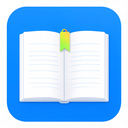
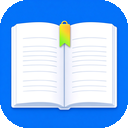
净化规则增强(起点段评/著/字数/顶部信息区/侧边按钮)；更新图标为带书签标签版；版本号统一为1.0

diff --git a/content.js b/content.js
@@ -131,7 +131,7 @@
   var GM_info = {
     script: {
       name: '小说阅读助手',
-      version: '3.3',
+      version: '1.0',
       description: '小说阅读助手：统一阅读样式、去广告、段落整理、自动翻页、进度记忆、快捷键',
       includes: ['*://*/*'],
       excludes: []
@@ -1193,7 +1193,7 @@
       // 删除隐藏元素（起点隐藏段评数字/弹幕等用 display:none，CSS 被移除后隐藏失效）
       $div.find('[style*="display:none"], [style*="display: none"], [hidden], [aria-hidden="true"]').remove();
       // 删除章节标题
-      $div.find('h1, h2, h3').remove();
+      $div.find('h1, h2, h3, h4, h5, h6, [role="heading"]').remove();
       // contentRemove
       $div.find(Rule.contentRemove).remove();
       if (info && info.contentRemove) {
@@ -1204,7 +1204,7 @@
           var $t = $(this);
           var txt = ($t.text() || '').replace(/\s+/g, '');
           if (!txt) return;
-          if (/^(?:本章说\d{0,6}|(?:\S+·)?(?:作者|作家)说|上起点中文网支持我[^\n]*|下载App|下载APP|下载客户端|打开App|立即下载|打赏(?:了)?\d{0,8}(?:万|千)?(?:起点)?(?:点|币)?|打赏榜|打赏列表|最近打赏|本章打赏|打赏记录|扫一扫，手机接着读|上一章|下一章|目录|章节目录|章节列表|回目录|添加书签|\d{1,8}字|\d{1,5})$/.test(txt)) {
+          if (/^(?:本章说\d{0,6}|(?:\S+·)?(?:作者|作家)说|上起点中文网支持我[^\n]*|下载App|下载APP|下载客户端|打开App|立即下载|打赏(?:了)?\d{0,8}(?:万|千)?(?:起点)?(?:点|币)?|打赏榜|打赏列表|最近打赏|本章打赏|打赏记录|扫一扫，手机接着读|上一章|下一章|目录|章节目录|章节列表|回目录|添加书签|\d{1,8}字|\d{1,5}|讨论热烈[^\n]{0,30}段评|阅文集团|本作品由起点中文网进行电子制作与发行|@版权所有侵权必究|与[0-9.]+万?位书友[^\n]{0,40}|「盟主」[^\n]{0,30}(?:「堂主」[^\n]{0,30})?|第[0-9一二三四五六七八九十百千]+章[^\n]{0,40}|类型|上架|连载中\(字\)|都市|[^\n]*◎著|反馈|指南|举报|旧版|著|\d{1,6}(?:\.\d{1,2})?万)$/.test(txt)) {
               $t.remove();
           }
       });
@@ -3094,6 +3094,7 @@ preferencesShow: function(event){
         this.show();
       }
 
+      this._curUrl = url;
       const src = url + '#mynovelreader';
 
       if (this.iframe.src === src) {
@@ -3113,6 +3114,15 @@ preferencesShow: function(event){
       this.win = this.iframe.contentWindow;
 
       if (!this.doc) {
+        // [修复] iframe 加载偶发失败（contentDocument 为空，多为网站临时拦截/网络抖动）：重建 iframe 自动重试一次，再判 Fail
+        this._loadFail = (this._loadFail || 0) + 1;
+        if (this._loadFail <= 1 && this._curUrl) {
+          this.hide();
+          if (this.iframe) { this.iframe.remove(); this.iframe = null; }
+          this.status = RequestStatus.Idle;
+          this.send(this._curUrl);
+          return;
+        }
         this.status = RequestStatus.Fail;
         this.hide();
         this.errorHandle();
@@ -3149,6 +3159,7 @@ preferencesShow: function(event){
         }
       }
       if (myToken !== this._loadToken) return;
+      this._loadFail = 0;
       this.hide();
       this.status = RequestStatus.Finish;
       this.finishHandle();
@@ -3338,6 +3349,7 @@ preferencesShow: function(event){
               {
                   url: /^https?:\/\/([a-z0-9-]+\.)*weimangguo\.com\//i,
                   name: "微妙看书",
+                  useiframe: true,   // 后台 fetch 翻页请求疑似被站点防护拦截（连续翻几章后失效），改用同源 iframe 导航加载下一页，更接近真实浏览
                   contentSelector: "#nr_content, .nr_content, #nr, .nr_nr, #chaptercontent, #booktxt, #htmlContent, .txtnav, #pagecontent, #content, .content",
                   nextSelector: "a:contains('下一页'), a:contains('下一章'), a:contains('下页'), a:contains('下章'), a[rel='next']"
               }
@@ -4042,7 +4054,8 @@ preferencesShow: function(event){
           App$1.lastRequestUrl = App$1.requestUrl;
 
           if (nextUrl && !App$1.isTheEnd && !(nextUrl in App$1.parsedPages)) {
-              App$1.curPageUrl = App$1.requestUrl;
+              try {
+                  App$1.curPageUrl = App$1.requestUrl;
               App$1.requestUrl = null;
 
               var useiframe = App$1.site.useiframe;
@@ -4065,6 +4078,13 @@ preferencesShow: function(event){
                   App$1.request.send(nextUrl, referer);
               } else {
                   App$1.request.send(nextUrl);
+              }
+              } catch (e) {
+                  // [修复] 请求体抛异常时也必须释放 isRequesting 锁，否则锁永久卡死，
+                  // 导致后续翻页（含手动下一页）全部失效，只能退出阅读模式重进才能恢复。
+                  C.error('翻页请求异常', e);
+                  logStore('error', '翻页请求异常（' + nextUrl + '）：' + ((e && e.message) || e));
+                  App$1.$loading.html("<a href='" + nextUrl + "'>翻页请求异常，请点此手动打开</a>").show();
               }
       
           }
